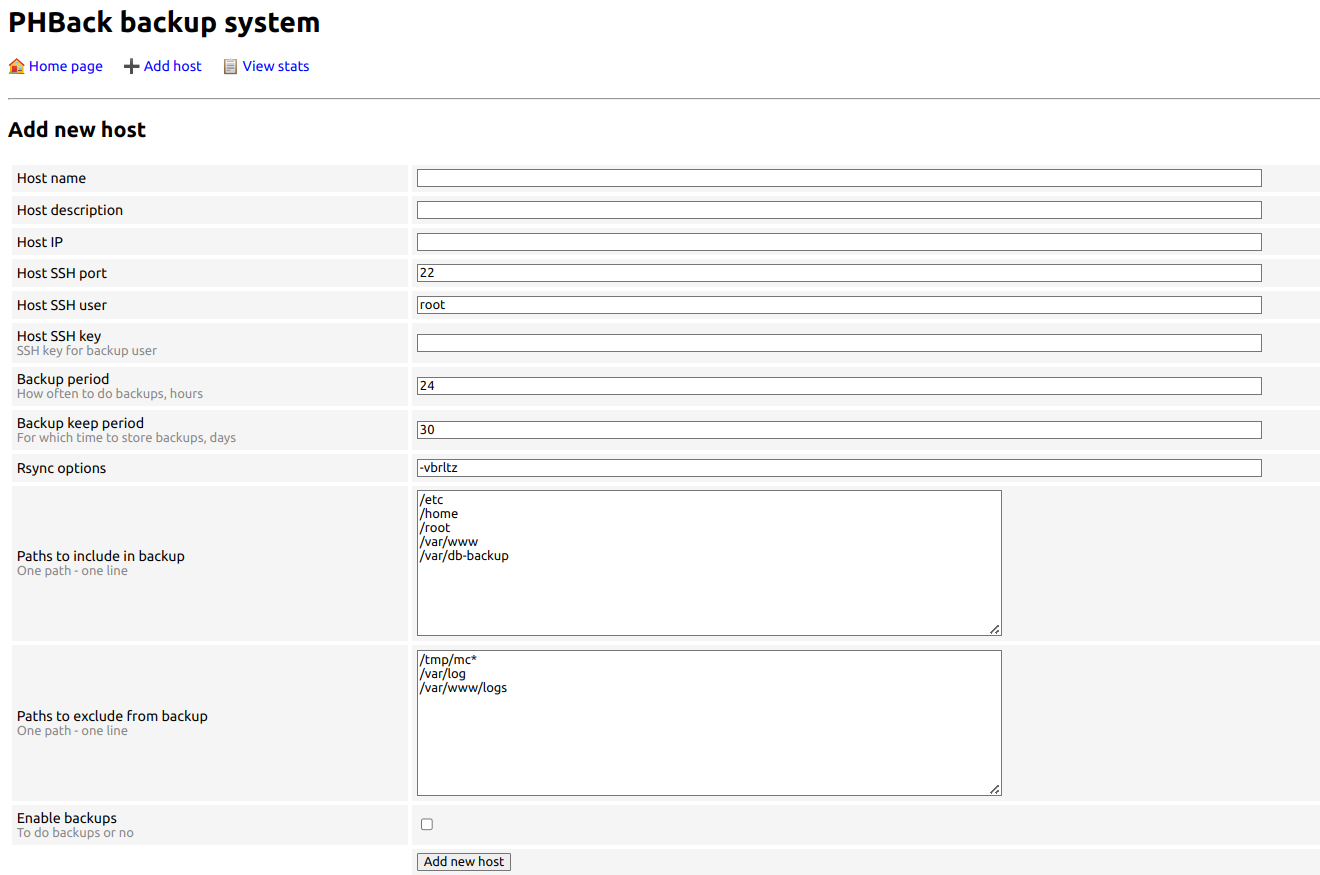
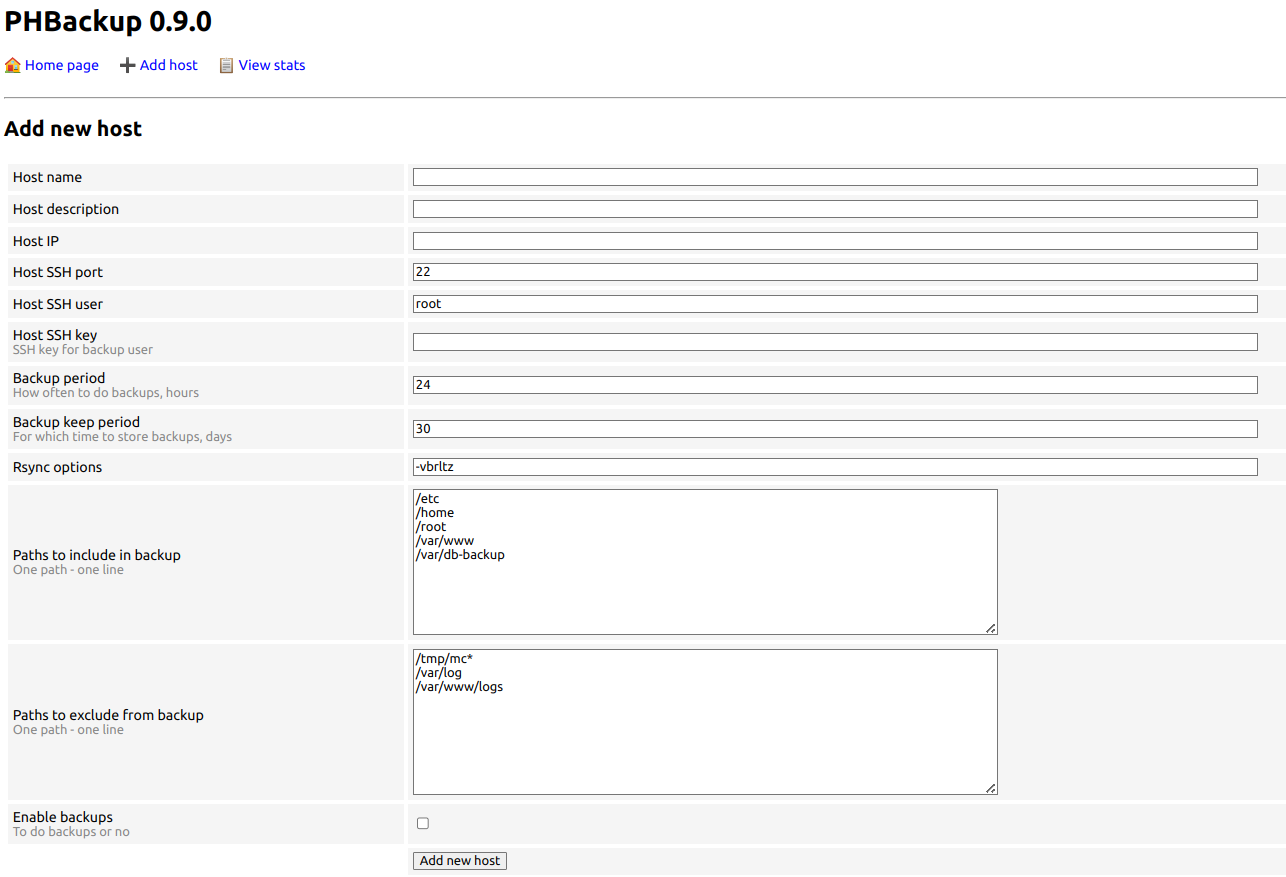
screens

diff --git a/web/index.php b/web/index.php
@@ -2,8 +2,6 @@
 
 // PHBackup backup system
 // Copyright (c) 2023, Host4Biz
-// Version 0.1.0
-
 
 // Settings
 include("/etc/phbackup/opt.php");
@@ -52,12 +50,12 @@ function DrawHost($host_data, $host_vars) {
 
 <html>
 <head>
-<title>PHBack backup system</title>
+<title>PHBackup <?php echo $script_ver; ?></title>
 <META HTTP-EQUIV="Content-Type" CONTENT="text/html; charset=utf-8">
 <link rel="stylesheet" type="text/css" href="style.css" />
 </head>
 <body>
-<h1>PHBack backup system</h1>
+<h1>PHBackup <?php echo $script_ver; ?></h1>
 <a href = "index.php" class="no-underline">🏠 Home page</a>
 &nbsp;&nbsp;&nbsp;&nbsp;
 <a href = "index.php?action=add" class="no-underline">➕ Add host</a>

diff --git a/etc/phbackup/opt.php b/etc/phbackup/opt.php
@@ -1,5 +1,8 @@
 <?php
 
+// Script version
+$script_ver = "0.9.0";
+
 // Database host / default: localhost
 $db_host = 'localhost';
 

diff --git a/worker.php b/worker.php
@@ -3,7 +3,6 @@
 
 // PHBackup backup system
 // Copyright (c) 2023, Host4Biz
-// Version 0.1.0
 
 
 // Checking if we are in CLI
